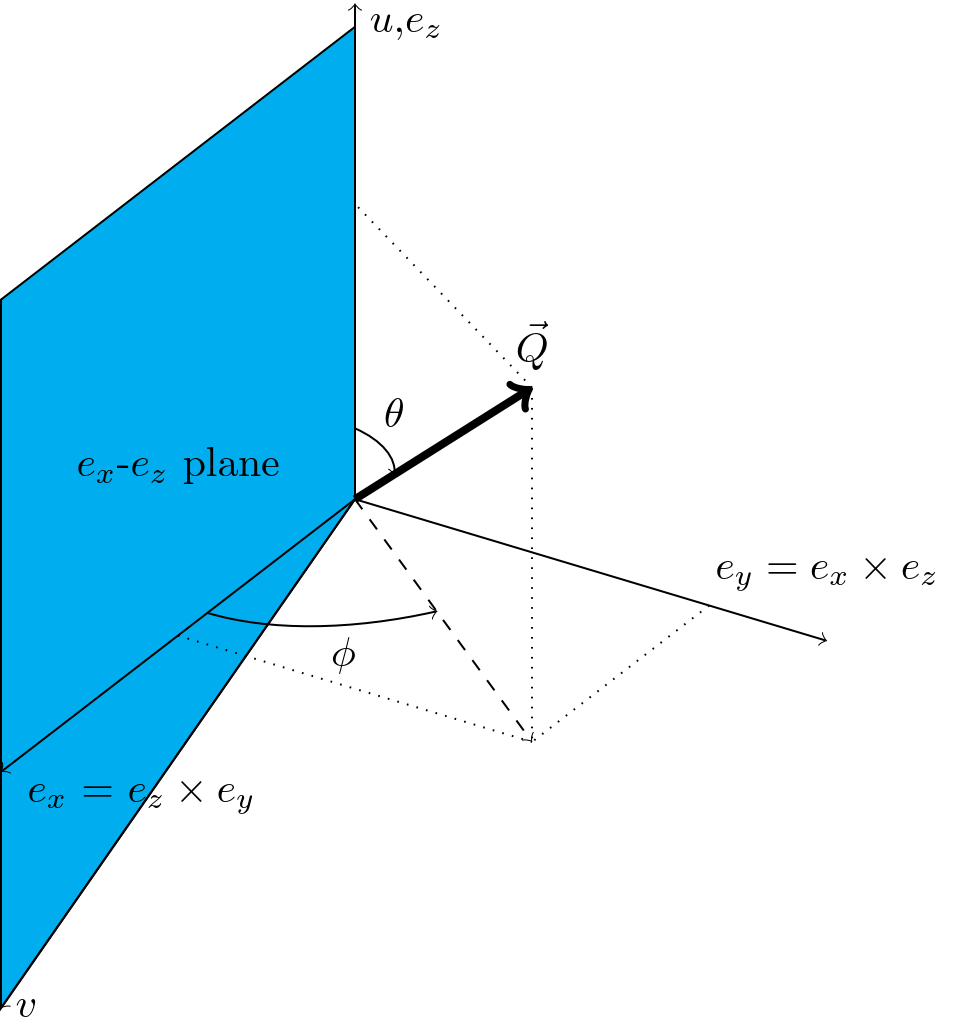
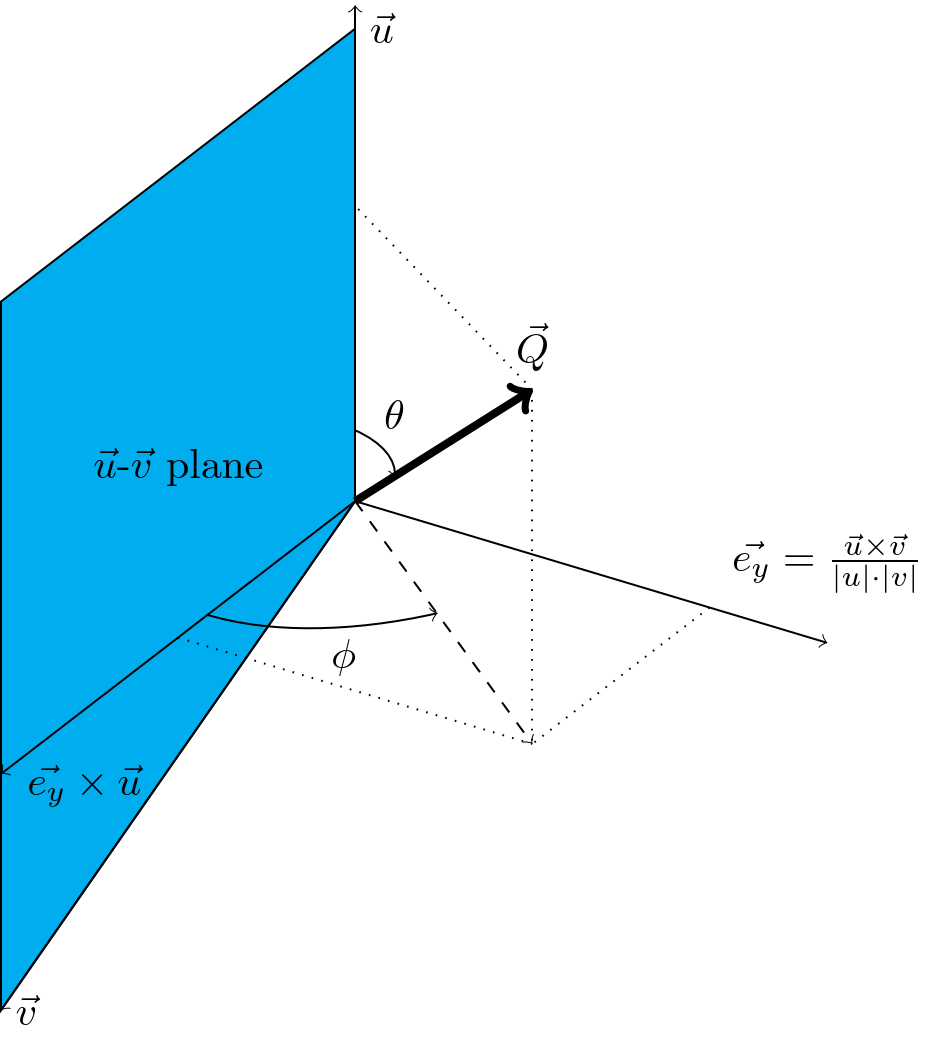
Re #1686 On Toby requests, removed formula to define lattice vectors.

diff --git a/documentation/user_docs/docs/images/cylinder_proj_coordinates.tex b/documentation/user_docs/docs/images/cylinder_proj_coordinates.tex
@@ -6,15 +6,15 @@
 \begin{tikzpicture}[x={(-5mm,-3.85mm)},z={(0,1cm)},y={(1cm,-.3cm)}]
 
   \draw [,dashed] (0,0,0) ellipse (4.2 and 4.2) [below];	
-  \draw [fill=cyan] (0,0,0)--(6,0,-3)--(6,0,4.5)--(0,0,4.5) node [above, xshift=-1.5cm,yshift=-4cm] {$e_x$-$e_z$ plane};
+  \draw [fill=cyan] (0,0,0)--(6,0,-3)--(6,0,4.5)--(0,0,4.5) node [above, xshift=-1.5cm,yshift=-4cm] {$\vec{u}$-$\vec{v}$ plane};
   \draw [,dashed] (4.2,0,0) arc [start angle=0,end angle=15,x radius=4,y radius=4.];	  
   
   \draw [line width=2pt] (0,0,0)--(0,0,2.5) node [above,xshift=0.4cm,yshift=-1.5cm] {$Q_{\|}$};
-  \draw [->] (0,0) -- (6.2,0,-3.1) node [right,xshift=0.3cm,yshift=.4cm] {$v$};
-  \draw [->] (0,0) -- (0,5,0) node [above,xshift=-0.8cm,yshift=-0.6cm] {$e_y = e_x \times e_z$};
-  \draw [->] (0,0) -- (0,0,5) node [right,yshift=-0.5cm] {$u$,$e_z$};
+  \draw [->] (0,0) -- (6.2,0,-3.1) node [right,xshift=0.3cm,yshift=.4cm] {$\vec{v}$};
+  \draw [->] (0,0) -- (0,5,0) node [above,xshift=-0.8cm,yshift=-0.7cm] {$\vec{e_y} = \frac{\vec{u} \times \vec{v}}{|u|\cdot |v|}$};
+  \draw [->] (0,0) -- (0,0,5) node [right,yshift=-0.5cm] {$\vec{u}$};
 
-  \draw [->] (0,0) -- (6,0,0) node [right,xshift=0.cm,yshift=-0.1cm] {$e_x$ = $e_z \times e_y$};
+  \draw [->] (0,0) -- (6,0,0) node [right,xshift=-0.0cm,yshift=-0.2cm] {$\vec{e_y} \times \vec{u}$};
 
   \draw [line width=1pt,dotted] (3,3,3) -- (0,0,2.5);=
   

diff --git a/documentation/user_docs/docs/images/sphere_proj_coordinates.tex b/documentation/user_docs/docs/images/sphere_proj_coordinates.tex
@@ -4,13 +4,13 @@
 \begin{document}
 
 \begin{tikzpicture}[x={(-5mm,-3.85mm)},z={(0,1cm)},y={(1cm,-.3cm)}]
-  \draw [fill=cyan] (0,0,0)--(6,0,-2)--(6,0,4)--(0,0,4) node [above, xshift=-1.5cm,yshift=-4cm] {$e_x$-$e_z$ plane};
+  \draw [fill=cyan] (0,0,0)--(6,0,-2)--(6,0,4)--(0,0,4) node [above, xshift=-1.5cm,yshift=-4cm] {$\vec{u}$-$\vec{v}$ plane};
 
-  \draw [->] (0,0) -- (6,0,-2) node [right] {$v$};
-  \draw [->] (0,0) -- (0,4,0) node [above,xshift=0.cm,yshift=0.3cm] {$e_y = e_x \times e_z$};
-  \draw [->] (0,0) -- (0,0,4.2) node [right,yshift=-0.2cm] {$u$,$e_z$};
+  \draw [->] (0,0) -- (6,0,-2) node [right] {$\vec{v}$};
+  \draw [->] (0,0) -- (0,4,0) node [above,xshift=0.cm,yshift=0.3cm] {$\vec{e_y} = \frac{\vec{u} \times \vec{v}}{|u|\cdot |v|}$};
+  \draw [->] (0,0) -- (0,0,4.2) node [right,yshift=-0.2cm] {$\vec{u}$};
 
-  \draw [->] (0,0) -- (6,0,0) node [right,xshift=0.1cm,yshift=-0.2cm] {$e_x$ = $e_z \times e_y$};
+  \draw [->] (0,0) -- (6,0,0) node [right,xshift=0.1cm,yshift=-0.1cm] {$\vec{e_y} \times \vec{u}$};
 
   \draw [dotted] (3,3,3) -- (0,0,2.5);
   

diff --git a/documentation/user_docs/docs/manual/Cutting_data_of_interest_from_SQW_files_and_objects.rst b/documentation/user_docs/docs/manual/Cutting_data_of_interest_from_SQW_files_and_objects.rst
@@ -617,7 +617,7 @@ where:
 .. note::
 
   The reciprocal space vectors :math:`u`-:math:`v` are not necessarily
-  orthogonal so the actual axis :math:`e_z` from which :math:`\phi` is measured lies in the
+  orthogonal so the actual axis from which :math:`\phi` is measured lies in the
   plane defined by :math:`u`-:math:`v` vectors and is orthogonal to :math:`u`.
 
 .. note::
@@ -705,34 +705,28 @@ of momentum transfer from neutron to excitations -- lattice measured
 in scattering experiment. If offset is not zero, :math:`\vec{Q}`
 is the difference between ``offset`` and the measured momentum transfer.
 
-Because reciprocal lattice is often non-orthogonal lattice, we introduce auxiliary 
-orthogonal coordinate system, which vector :math:`\vec{e_z}` being parallel to 
-:math:`\vec{u}` and vector :math:`\vec{e_x}` is orthogonal to :math:`\vec{e_z}`
-and lies in the plane defined by :math:`\vec{u}` - :math:`\vec{v}`. 
-(see :ref:`Sphere coordinates <fig_sphere_coodinates>` below.) When crystal lattice is 
-orthogonal, unit vectors :math:`\vec{e_z}` is aligned with :math:`\vec{u}` and 
-unit vector :math:`\vec{e_x}` is aligned with :math:`\vec{v}`.
+..
+  _hidden on Toby's requests:  
+  Because reciprocal lattice is often non-orthogonal lattice, we introduce auxiliary 
+  orthogonal coordinate system, which vector :math:`\vec{e_z}` being parallel to 
+  :math:`\vec{u}` and vector :math:`\vec{e_x}` is orthogonal to :math:`\vec{e_z}`
+  and lies in the plane defined by :math:`\vec{u}` - :math:`\vec{v}`. 
+  (see :ref:`Sphere coordinates <fig_sphere_coodinates>` below.) When crystal lattice is 
+  orthogonal, unit vectors :math:`\vec{e_z}` is aligned with :math:`\vec{u}` and 
+  unit vector :math:`\vec{e_x}` is aligned with :math:`\vec{v}`.
 
 Then ``sphere_proj`` coordinates are:
 
 - |Q| The radius from the origin (``offset``) in :math:`hkl`
 
-- :math:`\theta`  -- The angle measured from :math:`e_z` to the vector (:math:`\vec{Q}`),
-  i.e. :math:`0^{\circ}` is parallel to :math:`e_z` and :math:`90^{\circ}` is
-  perpendicular to :math:`e_z`.   Mathematically this is defined as:
+- :math:`\theta`  -- The angle measured from :math:`\vec{u}` to the vector (:math:`\vec{Q}`),
+  i.e. :math:`0^{\circ}` is parallel to :math:`\vec{u}` and :math:`90^{\circ}` is
+  perpendicular to :math:`\vec{u}`. 
 
-  .. math::
-
-   \cos\left(\theta{}\right) = \frac{\vec{Q}\cdot\vec{e_z}}{\left|Q\right|\cdot\left|e_z\right|}
-
-- :math:`\phi` --  is the angle measured between the :math:`e_x`-:math:`e_z` plane to the vector
-  (:math:`\vec{q}`), i.e. :math:`0^{\circ}` lies in the :math:`e_x`-:math:`e_z`
-  plane and :math:`90^{\circ}` is normal to :math:`e_x`-:math:`e_z` plane
-  (i.e. parallel to :math:`e_y`). Mathematically this is defined as:
-
-  .. math::
-
-   \sin\left(\phi{}\right) = -\frac{[\vec{Q}\times\vec{e_z}]\cdot\vec{e_x}}{\left|[\vec{Q}\times\vec{e_z}]\right|}
+- :math:`\phi` --  is the angle measured between the projection of vector 
+  :math:`\vec{Q_\perp}=\vec{Q}-\frac{\vec{u}}{|u|^2}(\vec{u}\cdot \vec{Q})` to the plane
+  :math:`\vec{u}`-:math:`\vec{v}` , i.e. :math:`0^{\circ}` lies in the :math:`\vec{u}`-:math:`\vec{v}`
+  plane and :math:`90^{\circ}` is normal to :math:`\vec{u}`-:math:`\vec{v}` plane
 
 * :math:`E`   is the energy transfer as defined in ``line_proj``
 
@@ -933,7 +927,7 @@ where:
 
 - ``u``  The vector :math:`\vec{u}` is the reciprocal space vector defining the
   polar-axis of the cylindrical coordinate system along which
-  :math:`\vec{q}_{\|}` is measured.
+  :math:`\vec{Q}_{\|}` is measured.
 
   See the :ref:`diagram below <fig_cylinder_coodinates>` for details.
 
@@ -1031,31 +1025,17 @@ where:
 
 ``cylinder_proj`` defines a cylindrical coordinate system, where:
 
-- :math:`Q_{\perp}` -- The length of the projection of the momentum transfer :math:`\vec{Q}` measured from the ``cylinder_proj`` 
-  origin (``offset``) in :math:`hkl` to the plain :math:`e_x`-:math:`e_y`. (see :ref:`fig_cylinder_coodinates` below)
+- :math:`\vec{Q_\perp}=\vec{Q}-\frac{\vec{u}}{|u|^2}(\vec{u}\cdot \vec{Q})`  -- The length of the orthogonal to axis :math:`\vec{u}` part of the momentum transfer  :math:`\vec{Q}` measured from the ``cylinder_proj``  origin (``offset``) in :math:`hkl`.
 
-  .. math::
+- :math:`Q_{\|}`  -- The length of the projection of the momentum transfer :math:`\vec{Q}` measured from the ``cylinder_proj`` 
+  origin (``offset``) in :math:`hkl` to :math:`\vec{u}` axis of the ``cylinder_proj``
 
-   Q_{\perp} = \left| \vec{Q} - \vec{e_z}\cdot Q_{||}\right |
-
-
-- :math:`Q_{||}`  -- The length of the projection of the momentum transfer :math:`\vec{Q}` measured from the ``cylinder_proj`` 
-  origin (``offset``) in :math:`hkl` to :math:`e_z` axis of the ``cylinder_proj``
-
-  .. math::
-
-   Q_{||} = \vec{Q}\cdot\vec{e_z}
-
-* :math:`\phi` --  is the angle measured between the :math:`e_x`-:math:`e_z` plane to the vector
-  (:math:`\vec{Q_{\perp}}`), i.e. :math:`0^{\circ}` lies in the :math:`e_x`-:math:`e_z`
-  plane and :math:`90^{\circ}` is normal to :math:`e_x`-:math:`e_z` plane
-  (i.e. parallel to :math:`e_y`). Mathematically this is defined as:
-
-  .. math::
-
-   \cos\left(\phi{}\right) = \frac{\vec{Q_{\perp}}\cdot\vec{e_x}}{\left|\vec{Q_{\perp}}\right|}
-
-* :math:`E`   is the energy transfer as defined in ``line_proj``
+- :math:`\phi` --  is the angle measured between the vector :math:`\vec{Q_\perp}` to 
+  the plane :math:`\vec{u}`-:math:`\vec{v}` , i.e. :math:`0^{\circ}` lies in the :math:`\vec{u}`-:math:`\vec{v}`
+  plane and :math:`90^{\circ}` is normal to :math:`\vec{u}`-:math:`\vec{v}` plane
+  (i.e. parallel to :math:`\vec{e_y}`).
+   
+- :math:`E`  is the energy transfer as defined in ``line_proj``
 
 .. note::
 
@@ -1072,10 +1052,9 @@ where:
 
    Cylindrical coordinate system used by ``cylinder_proj``
 
-Similarly to :ref:`fig_sphere_coodinates`, Horace uses MATLAB methods ``cart2pol``/``pol2cart`` to convert
-array of vectors expressed in Cartesian coordinate system to cylindrical coordinate system and back.
-Detailed description of the cylindrical coordinate system used by Horace together with the image of the used coordinate system 
-are provided `on MATLAB "cart2pol" help pages <https://uk.mathworks.com/help/matlab/ref/cart2pol.html>`_.
+Similarly to :ref:`fig_sphere_coodinates`, detailed description of the cylindrical coordinate system used by
+Horace together with the image of the used coordinate system are provided `on MATLAB "cart2pol/pol2cart" help pages <https://uk.mathworks.com/help/matlab/ref/cart2pol.html>`_, as Horace uses these methods to convert array
+of vectors expressed in Cartesian coordinate system to cylindrical coordinate system and backward.
 
 .. note::
 
